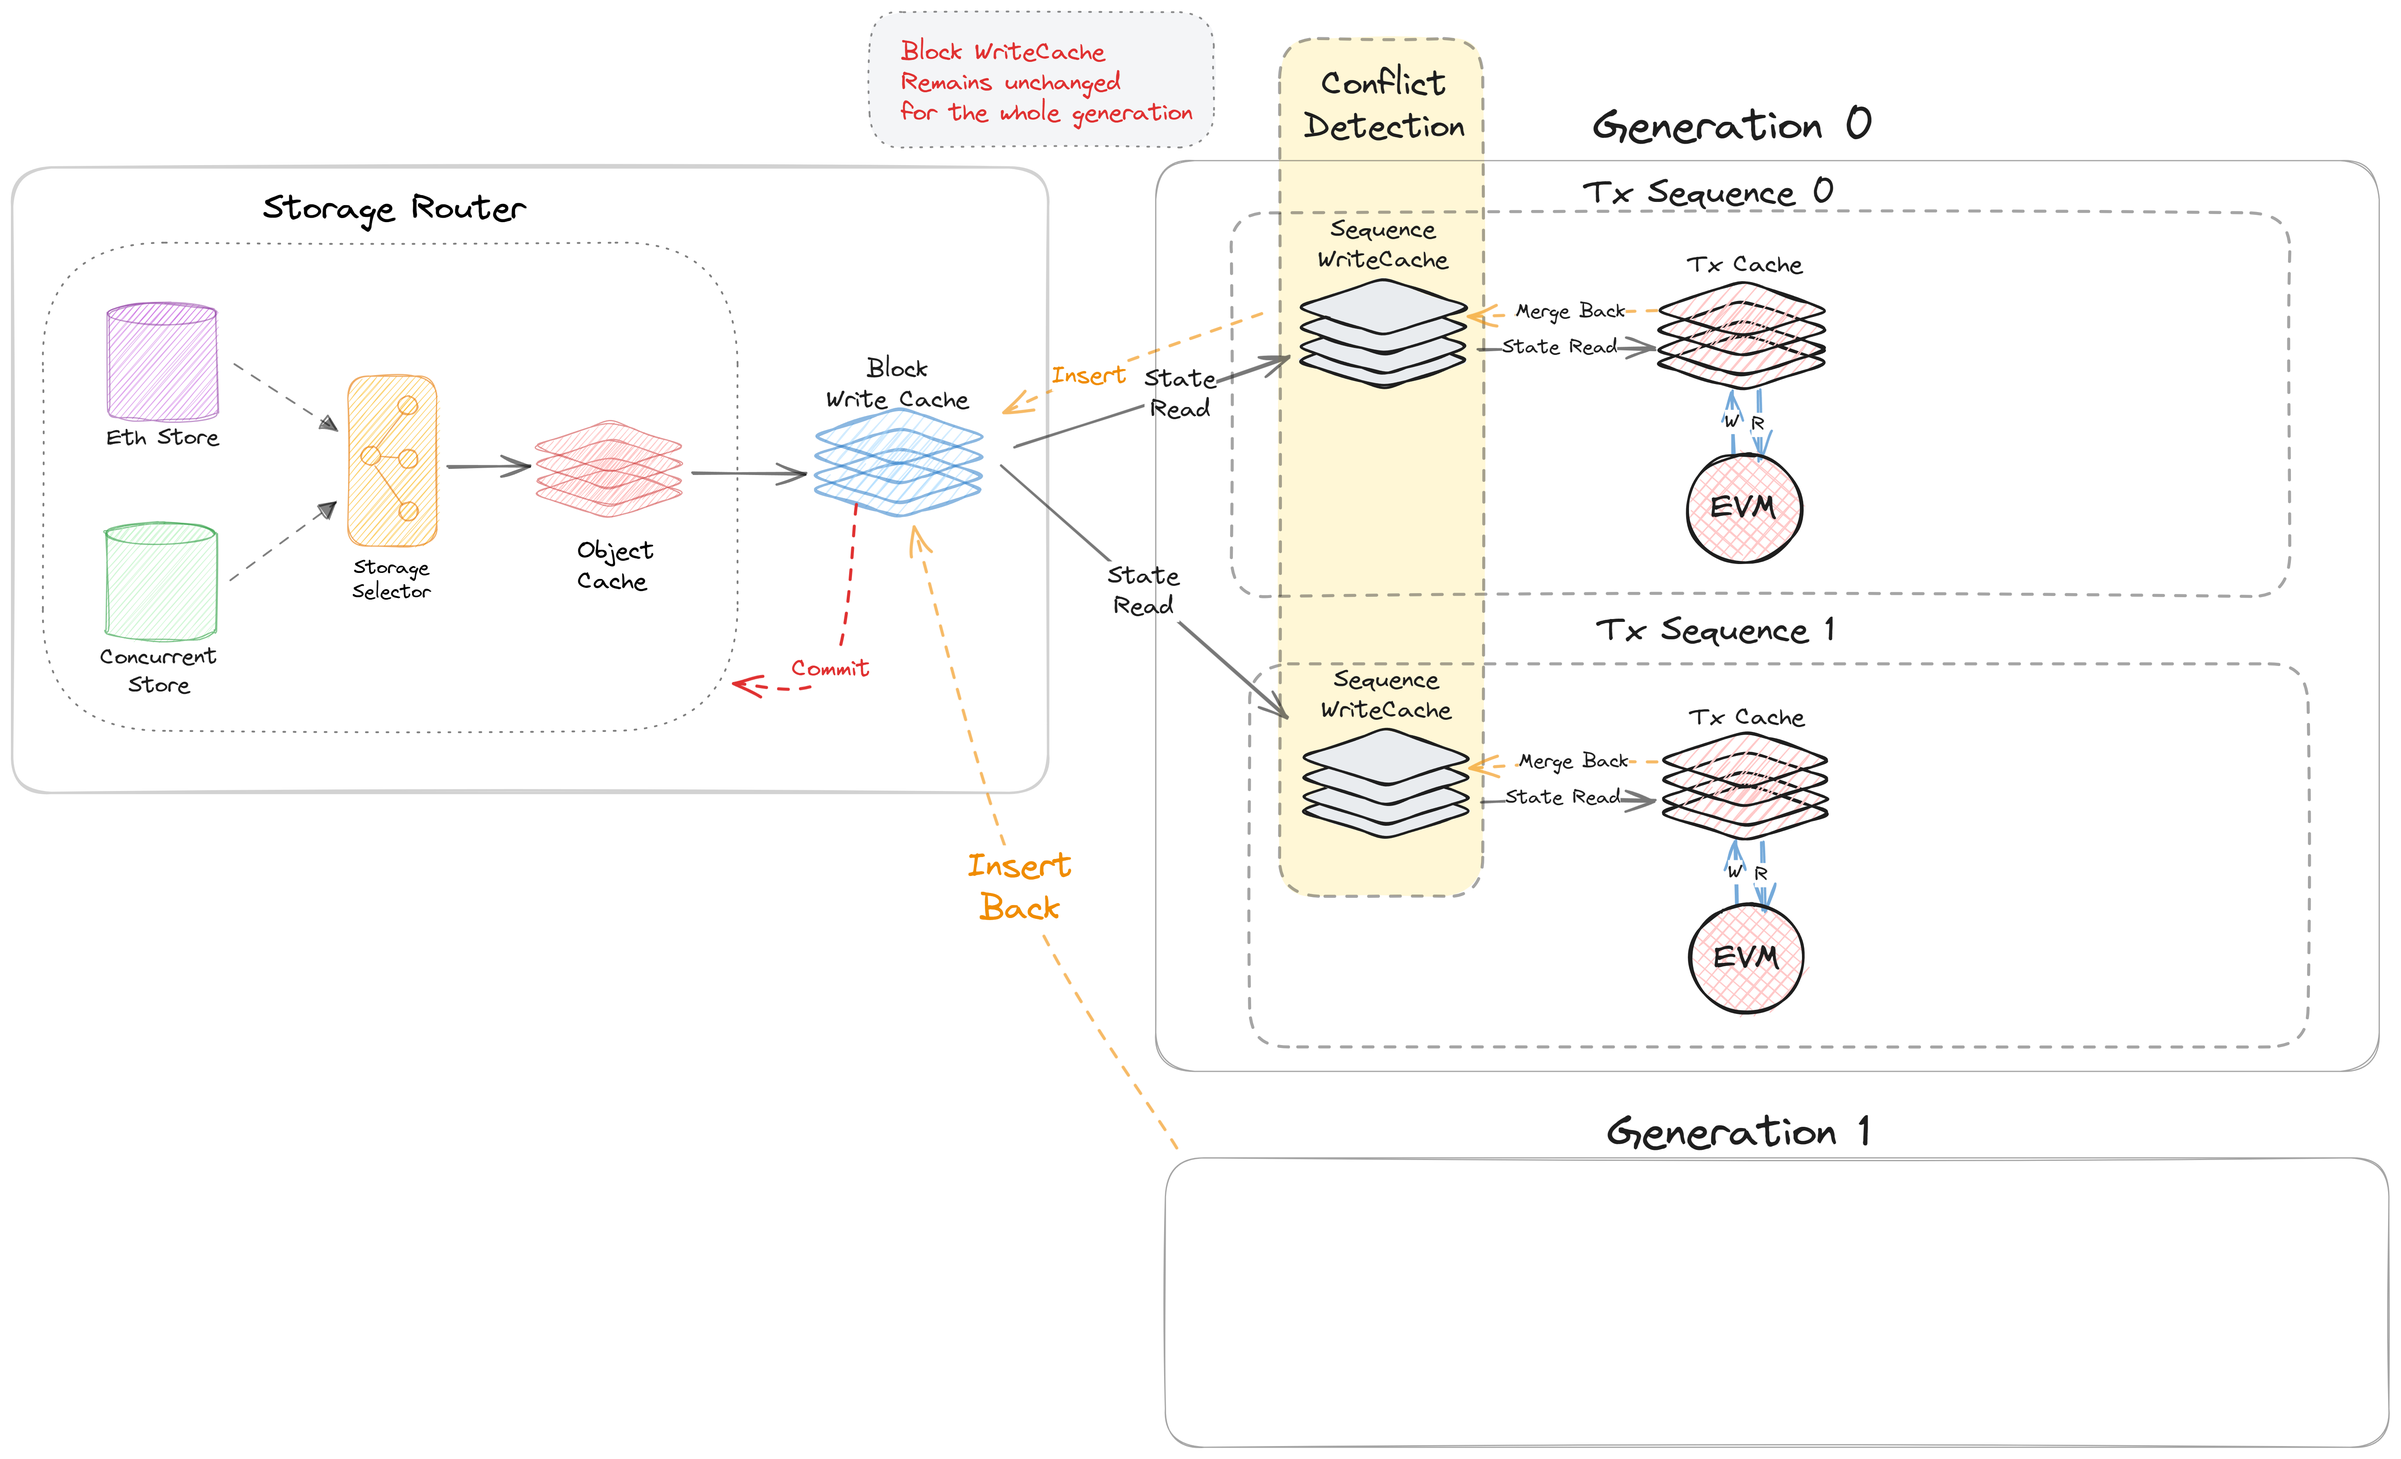
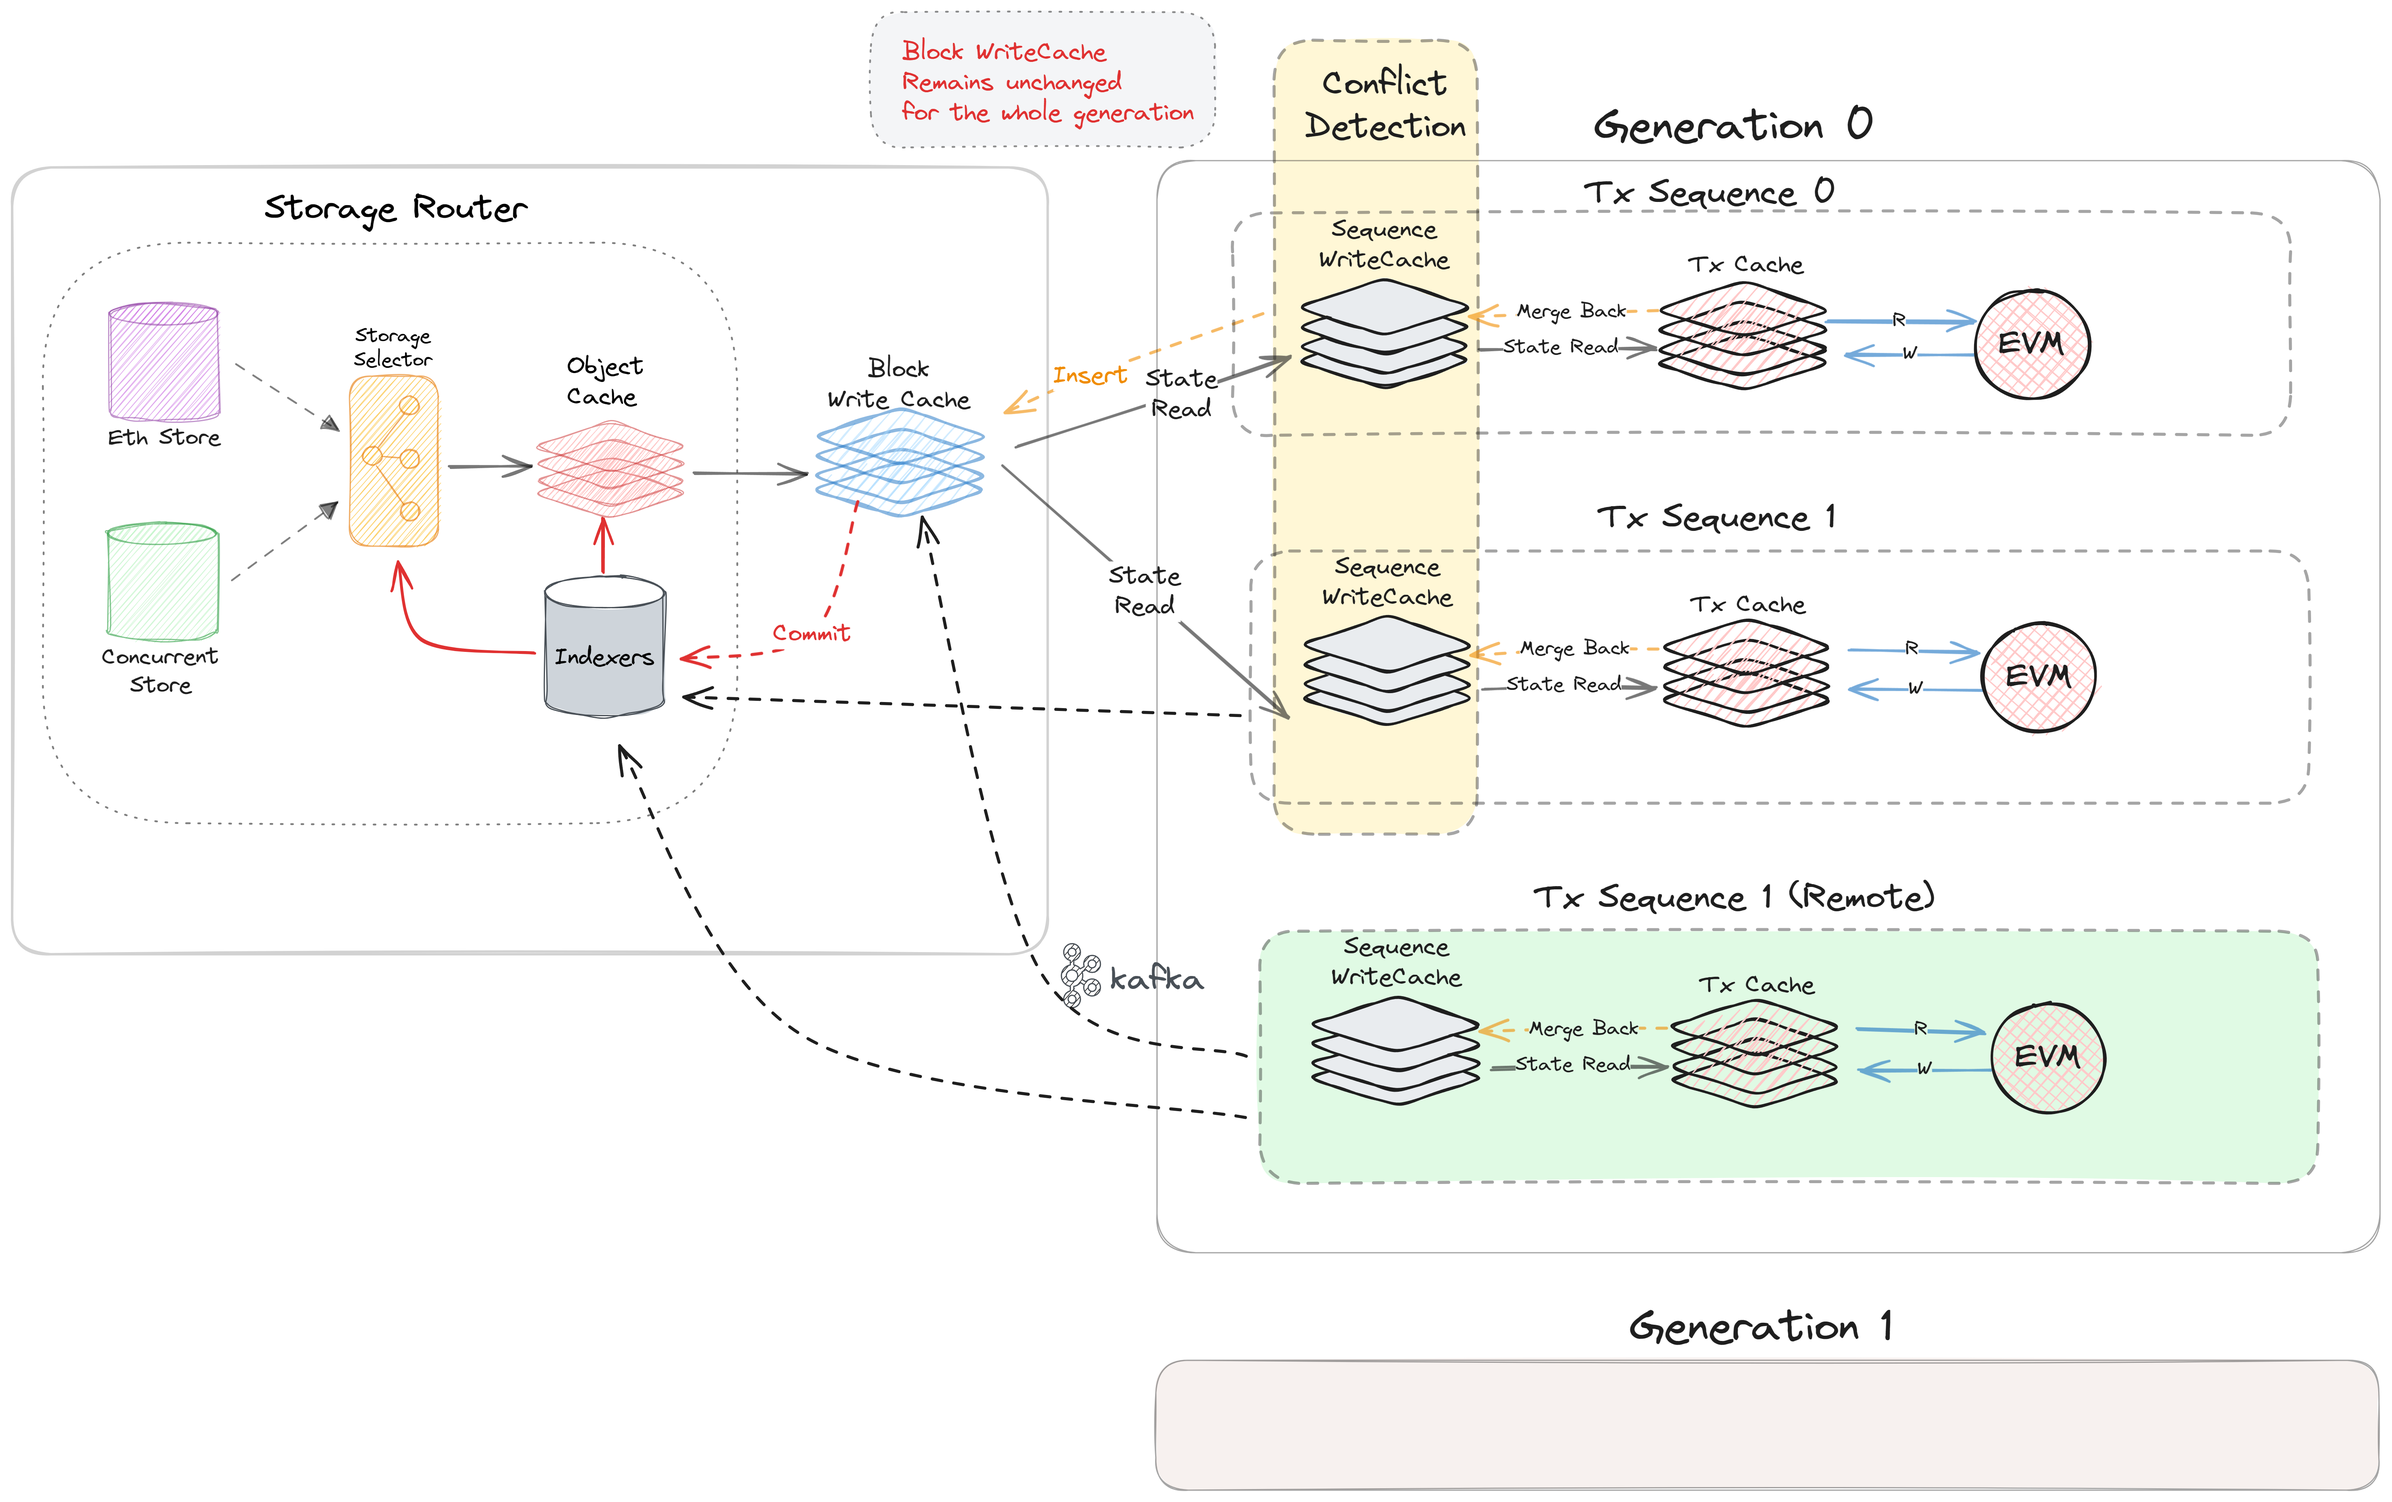
Delete cache documentation file and update diagram

diff --git a/cache/doc/write-cache.md b/cache/doc/write-cache.md
@@ -18,7 +18,7 @@ The data souce is a simple interface, any data source that implements the interf
 
 The transactions are divided into multiple generations. Each generation has a of sequences that consists of sequential transactions. Generations are executed sequential order, meaning only when the previous generation is completed, the next generation can start. The sequences in a generation are executed in parallel. 
 
-<img align="center" height="500" src="diagram.png"/>
+<img align="center" height="600" src="diagram.png"/>
 
 ### 2.1. Block Cache
 
@@ -36,4 +36,3 @@ When a sequence starts, a new empty cache is created, with the block cache as it
 ### 2.3. Transaction Cache
 
 The transaction cache is the third-level cache in the system. Its read-only data source is the sequence cache. This cache is used to store the data that is written by a transaction. Before a transaction is executed, a transaction cache is created by linking the sequence cache as its read-only data source. The transaction only writes to this cache. When the transaction is completed, the cache is merged back to the sequence cache, so the updated state is available for the next transaction in the sequence.
-
